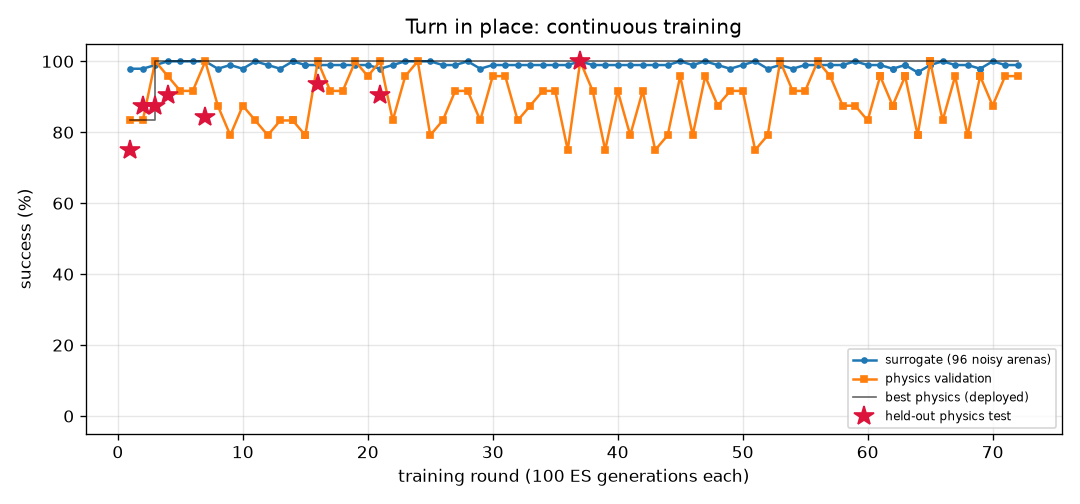
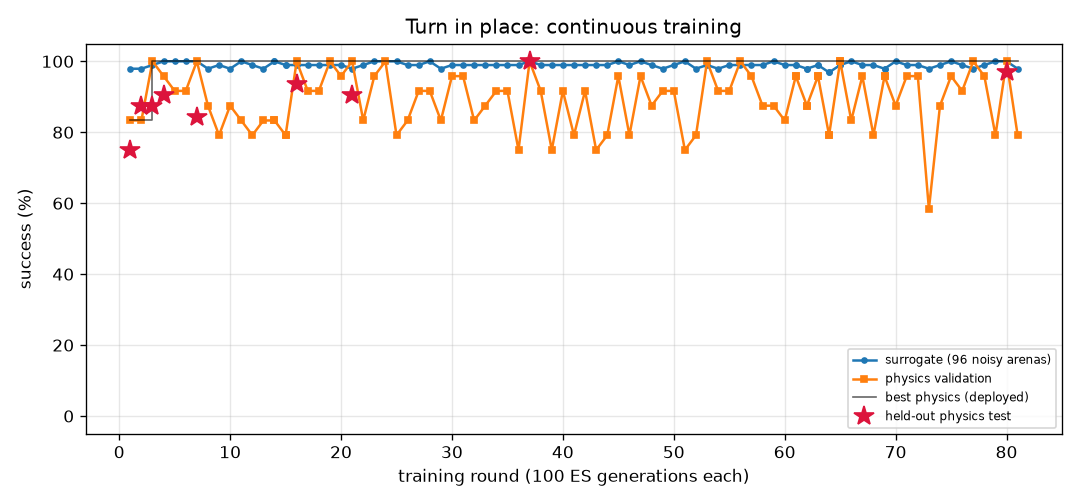
FlyLab: continuous training progress
- walk_forward: optimal, physics val 100% of 24, round 40
- turn: optimal, physics val 100% of 24, round 81
- goto: optimal, physics val 100% of 24, round 40
- odor_seek: optimal, physics val 100% of 24, round 68
- odor_avoid: optimal, physics val 96% of 24, round 246
- light_seek: optimal, physics val 100% of 24, round 213
- light_avoid: optimal, physics val 100% of 24, round 57

diff --git a/projects/09_flylab/training/turn/REPORT.md b/projects/09_flylab/training/turn/REPORT.md
@@ -1,31 +1,22 @@
 # Turn in place (`turn`) — training report
 
-*Auto-generated by `train_brains.py`, last updated 2026-10-03T20:35:49.*
+*Auto-generated by `train_brains.py`, last updated 2026-10-03T21:33:37.*
 
 ![curve](curve.png)
 
 | | |
 |---|---|
-| rounds | 72 |
-| ES generations | 7200 |
-| physics runs | 1942 |
+| rounds | 81 |
+| ES generations | 8100 |
+| physics runs | 2190 |
 | status | **optimal** |
-| best brain | round 37: physics validation **100%** on 24 arenas, surrogate 100% |
-| held-out physics test | **100%** on 32 unseen arenas (95% CI 89%-100%) (errors: [0.7, 2.9, 4.2, 1.6, 2.0, 1.9, 0.4, 0.6, 2.5, 2.5, 1.2, 5.1, 0.0, 1.3, 0.9, 2.0, 1.8, 3.9, 0.0, 2.1, 0.4, 1.6, 2.5, 0.7, 2.4, 4.8, 1.8, 6.0, 4.3, 1.3, 7.4, 7.2]) |
+| best brain | round 80: physics validation **100%** on 24 arenas, surrogate 100% |
+| held-out physics test | **97%** on 32 unseen arenas (95% CI 84%-99%) (errors: [1.6, 3.3, 6.3, 3.7, 1.1, 0.4, 2.4, 2.9, 0.1, 2.6, 0.5, 2.7, 1.5, 3.1, 4.5, 0.2, 0.5, 1.1, 2.0, 4.4, 2.8, 3.2, 0.3, 2.2, 0.5, 3.0, 0.3, 5.4, 0.4, 1.0, 4.7, 10.7]) |
 
 Physics error per arena: deg from target heading (< 20 = success).
 
 | round | level | gens | sigma | surrogate | physics val | val errors | test | note |
 |---:|---:|---:|---:|---:|---:|---|---:|---|
-| 39 | 3 | 3900 | 0.025 | 99% | 75% | [7.6, 6.9, 6.6, 1.5, 3.3, 4.4, 4.6, 5.2, 2.4, 1.2, 4.7, 0.0, 2.3, 2.1, 4.7, 0.0, 0.4, 1.7, 0.0, 0.1, 5.8, 2.4, 3.7, 3.0] |  |  |
-| 40 | 3 | 4000 | 0.025 | 99% | 92% | [6.2, 0.2, 7.0, 0.6, 11.5, 1.9, 5.9, 6.8, 5.9, 1.4, 4.2, 1.1, 1.3, 1.0, 4.1, 1.5, 2.1, 2.2, 1.5, 1.2, 2.3, 2.7, 6.6, 7.7] |  |  |
-| 41 | 3 | 4100 | 0.025 | 99% | 79% | [0.4, 4.8, 0.8, 1.6, 10.3, 116.6, 5.5, 1.3, 4.9, 2.4, 4.4, 0.5, 1.6, 0.8, 4.0, 10.2, 0.4, 0.9, 11.5, 0.1, 5.5, 2.5, 5.7, 4.8] |  | restart from best |
-| 42 | 3 | 4200 | 0.024 | 99% | 92% | [1.9, 0.3, 2.3, 2.0, 3.0, 4.4, 6.6, 4.3, 5.4, 11.7, 4.6, 1.7, 0.6, 1.5, 5.3, 2.0, 2.3, 1.7, 1.5, 1.3, 1.7, 1.8, 8.0, 2.0] |  |  |
-| 43 | 3 | 4300 | 0.025 | 99% | 75% | [5.1, 2.7, 1.8, 1.5, 4.1, 0.5, 3.5, 2.9, 4.1, 0.8, 0.1, 0.9, 1.8, 2.2, 4.9, 0.5, 0.6, 1.0, 0.2, 0.4, 104.5, 1.1, 7.0, 0.6] |  |  |
-| 44 | 3 | 4400 | 0.025 | 99% | 79% | [6.1, 5.9, 10.1, 5.5, 1.0, 3.8, 11.7, 8.1, 10.4, 3.1, 7.3, 7.0, 2.8, 3.4, 6.7, 13.5, 6.9, 4.9, 13.4, 14.6, 4.2, 4.7, 5.6, 1.1] |  |  |
-| 45 | 3 | 4500 | 0.025 | 100% | 96% | [2.6, 0.3, 4.4, 2.8, 2.9, 3.3, 6.3, 6.9, 6.6, 1.7, 6.7, 2.7, 0.1, 0.2, 4.2, 8.9, 2.8, 2.1, 2.2, 3.5, 5.9, 2.8, 6.6, 6.0] |  | restart from best |
-| 46 | 3 | 4600 | 0.024 | 99% | 79% | [4.1, 5.3, 4.5, 0.1, 2.4, 112.6, 8.3, 10.7, 7.2, 13.0, 7.4, 4.1, 1.4, 0.5, 5.2, 12.9, 4.3, 3.4, 11.5, 3.6, 1.3, 4.0, 9.8, 3.8] |  |  |
-| 47 | 3 | 4700 | 0.025 | 100% | 96% | [3.9, 1.2, 3.9, 1.0, 3.0, 4.1, 5.1, 2.6, 6.4, 1.7, 7.2, 3.0, 1.3, 3.8, 4.6, 1.2, 3.0, 1.7, 0.8, 1.0, 3.4, 3.3, 5.1, 3.3] |  |  |
 | 48 | 3 | 4800 | 0.024 | 99% | 88% | [3.9, 2.1, 0.6, 3.8, 5.2, 1.7, 6.8, 6.9, 6.4, 1.2, 6.6, 3.0, 0.6, 4.3, 5.8, 0.8, 0.4, 0.6, 0.8, 1.3, 3.6, 1.3, 4.6, 6.2] |  |  |
 | 49 | 3 | 4900 | 0.025 | 98% | 92% | [3.4, 3.4, 12.7, 4.8, 3.8, 2.0, 7.2, 2.5, 6.7, 1.9, 2.3, 5.6, 1.0, 0.1, 5.3, 3.3, 5.2, 4.5, 11.7, 11.6, 4.2, 3.7, 6.3, 8.9] |  | restart from best |
 | 50 | 3 | 5000 | 0.024 | 99% | 92% | [2.5, 10.7, 5.1, 0.7, 12.1, 13.1, 7.0, 9.4, 6.2, 11.3, 7.4, 3.9, 1.5, 0.2, 6.6, 2.5, 3.9, 2.8, 2.2, 2.7, 1.1, 2.4, 8.4, 1.7] |  |  |
@@ -57,3 +48,12 @@ Physics error per arena: deg from target heading (< 20 = success).
 | 70 | 3 | 7000 | 0.024 | 100% | 88% | [11.2, 15.8, 8.0, 1.3, 1.3, 8.6, 10.4, 11.0, 10.6, 5.2, 7.3, 9.0, 2.9, 4.8, 6.7, 15.7, 9.1, 16.7, 5.9, 8.3, 104.9, 4.2, 11.2, 13.3] |  |  |
 | 71 | 3 | 7100 | 0.024 | 99% | 96% | [0.5, 0.7, 0.6, 3.3, 2.4, 0.9, 5.1, 5.6, 6.5, 1.5, 4.2, 2.6, 0.7, 1.6, 4.9, 8.1, 3.3, 2.0, 4.1, 3.3, 6.1, 2.5, 6.0, 2.2] |  |  |
 | 72 | 3 | 7200 | 0.025 | 99% | 96% | [1.1, 13.5, 2.4, 0.1, 4.7, 1.2, 9.4, 6.5, 9.0, 1.7, 5.5, 3.4, 0.7, 0.2, 5.3, 4.3, 3.9, 3.2, 4.6, 4.9, 5.3, 3.1, 9.0, 5.6] |  |  |
+| 73 | 3 | 7300 | 0.025 | 98% | 58% | [6.7, 7.5, 8.3, 2.4, 1.9, 3.8, 8.7, 12.1, 8.7, 2.8, 6.6, 3.4, 2.8, 2.3, 8.3, 5.8, 4.1, 4.3, 9.9, 0.7, 6.0, 4.9, 8.3, 9.3] |  | restart from best |
+| 74 | 3 | 7400 | 0.024 | 99% | 88% | [6.7, 2.9, 7.1, 1.3, 11.0, 3.2, 8.0, 10.2, 5.7, 0.6, 6.0, 3.1, 1.9, 1.2, 5.0, 1.7, 2.0, 3.2, 1.8, 1.8, 4.1, 4.4, 8.0, 7.0] |  |  |
+| 75 | 3 | 7500 | 0.025 | 100% | 96% | [3.5, 1.2, 1.1, 2.4, 3.4, 3.1, 6.0, 6.3, 6.1, 2.6, 6.0, 2.6, 1.4, 0.4, 5.3, 2.2, 3.6, 2.6, 2.1, 0.2, 1.3, 1.1, 6.8, 1.5] |  |  |
+| 76 | 3 | 7600 | 0.024 | 99% | 92% | [5.1, 7.9, 5.5, 1.1, 5.3, 120.2, 4.5, 2.9, 3.3, 0.0, 4.5, 0.4, 2.3, 4.4, 0.8, 2.0, 0.7, 0.5, 2.4, 1.5, 3.7, 1.0, 1.6, 4.0] |  |  |
+| 77 | 3 | 7700 | 0.025 | 98% | 100% | [8.2, 4.7, 1.1, 2.7, 9.0, 0.7, 4.5, 2.7, 4.4, 0.5, 2.7, 0.3, 1.8, 3.4, 3.4, 0.0, 0.0, 0.3, 0.1, 0.2, 3.8, 1.2, 3.8, 4.5] |  | restart from best |
+| 78 | 3 | 7800 | 0.024 | 99% | 96% | [4.7, 2.1, 0.0, 2.0, 1.0, 2.3, 8.2, 5.2, 7.4, 2.7, 4.5, 3.0, 0.3, 0.3, 5.0, 2.5, 3.1, 2.1, 2.5, 2.8, 2.8, 3.1, 8.0, 3.9] |  |  |
+| 79 | 3 | 7900 | 0.025 | 100% | 79% | [4.9, 4.3, 4.4, 1.8, 13.9, 4.6, 6.0, 7.1, 4.1, 1.5, 3.5, 0.1, 0.0, 3.4, 4.1, 1.3, 0.1, 3.5, 3.0, 0.9, 4.0, 1.5, 4.3, 5.4] |  |  |
+| 80 | 3 | 8000 | 0.024 | 100% | 100% | [4.0, 7.1, 4.2, 3.6, 0.4, 1.3, 5.1, 2.4, 5.1, 0.8, 1.3, 0.7, 2.6, 2.5, 0.1, 2.4, 0.6, 1.0, 1.5, 5.9, 3.5, 0.3, 3.2, 0.1] | 97% | new best |
+| 81 | 3 | 8100 | 0.024 | 98% | 79% | [7.2, 5.5, 7.0, 0.3, 0.9, 1.4, 3.8, 1.0, 4.7, 1.0, 3.5, 1.7, 0.8, 1.5, 3.1, 1.7, 1.7, 0.8, 3.7, 2.6, 4.8, 1.6, 4.7, 2.7] |  |  |

diff --git a/projects/09_flylab/training/odor_avoid/REPORT.md b/projects/09_flylab/training/odor_avoid/REPORT.md
@@ -1,28 +1,22 @@
 # Escape a bad smell (`odor_avoid`) — training report
 
-*Auto-generated by `train_brains.py`, last updated 2026-10-03T20:28:25.*
+*Auto-generated by `train_brains.py`, last updated 2026-10-03T21:31:11.*
 
 ![curve](curve.png)
 
 | | |
 |---|---|
-| rounds | 240 |
-| ES generations | 24000 |
-| physics runs | 2746 |
+| rounds | 246 |
+| ES generations | 24600 |
+| physics runs | 2954 |
 | status | **optimal** |
-| best brain | round 229: physics validation **96%** on 24 arenas, surrogate 98% |
-| held-out physics test | **97%** on 32 unseen arenas (95% CI 84%-99%) (errors: [42.2, 41.6, 42.3, 42.4, 42.1, 41.9, 41.8, 42.0, 41.8, 41.9, 42.3, 41.5, 41.9, 42.2, 42.8, 41.8, 42.8, 38.5, 42.9, 33.6, 42.0, 42.6, 41.7, 42.8, 42.0, 40.9, 38.5, 36.3, 40.2, 40.8, 42.4, 28.6]) |
+| best brain | round 246: physics validation **96%** on 24 arenas, surrogate 97% |
+| held-out physics test | **97%** on 32 unseen arenas (95% CI 84%-99%) (errors: [46.1, 44.0, 46.3, 45.2, 44.5, 46.0, 45.0, 45.9, 45.3, 44.9, 45.3, 44.1, 45.9, 45.3, 45.6, 45.3, 45.8, 40.6, 44.9, 41.2, 45.4, 46.2, 44.2, 45.6, 45.1, 43.5, 41.2, 37.3, 43.3, 44.3, 45.4, 34.7]) |
 
 Physics error per arena: mm gained away from source (> 6 without first approaching it = success).
 
 | round | level | gens | sigma | surrogate | physics val | val errors | test | note |
 |---:|---:|---:|---:|---:|---:|---|---:|---|
-| 208 | 3 | 20800 | 0.028 | 97% | 96% | [22.8, 22.9, 22.0, 23.0, 21.2, 20.6, 23.5, 22.4, 22.6, 21.6, 22.7, 23.2, 21.8, 22.1, 20.3, 20.9, 22.8, 21.1, 22.4, 23.2, 23.2, 21.2, 22.5, 21.6] | 94% | new best |
-| 209 | 3 | 20900 | 0.026 | 94% | 96% | [27.4, 27.8, 26.8, 27.8, 25.9, 25.4, 28.0, 27.2, 27.2, 26.4, 27.2, 27.8, 26.9, 26.8, 24.6, 25.8, 27.4, 25.7, 27.2, 27.5, 27.8, 25.9, 27.4, 26.5] | 97% |  |
-| 210 | 3 | 21000 | 0.026 | 95% | 96% | [19.1, 19.8, 19.3, 19.9, 17.7, 17.3, 20.1, 19.1, 19.1, 18.5, 19.7, 20.0, 20.1, 19.8, 19.3, 17.4, 19.5, 17.7, 20.2, 20.0, 20.0, 17.8, 19.2, 18.2] | 94% |  |
-| 211 | 3 | 21100 | 0.026 | 97% | 96% | [28.1, 28.0, 27.3, 28.0, 27.1, 26.8, 28.7, 27.7, 28.3, 27.5, 27.5, 28.4, 26.2, 27.4, 22.8, 26.6, 28.2, 26.9, 26.3, 28.1, 28.4, 27.2, 27.9, 27.4] | 94% | new best |
-| 212 | 3 | 21200 | 0.026 | 95% | 100% | [23.5, 23.6, 22.9, 23.7, 22.3, 21.9, 24.3, 22.9, 23.3, 22.6, 23.6, 24.1, 22.5, 23.2, 20.6, 22.1, 23.8, 22.2, 22.9, 23.2, 24.1, 22.1, 23.1, 22.2] | 94% |  |
-| 213 | 3 | 21300 | 0.026 | 95% | 96% | [25.8, 26.1, 25.7, 26.2, 24.7, 24.3, 26.8, 25.6, 25.6, 25.2, 26.3, 26.7, 25.8, 25.9, 23.3, 24.4, 26.3, 24.5, 26.1, 25.8, 26.7, 24.7, 25.8, 24.9] |  |  |
 | 214 | 3 | 21400 | 0.027 | 97% | 96% | [24.5, 25.2, 24.6, 25.2, 23.0, 22.7, 25.5, 24.5, 24.5, 23.9, 25.1, 25.4, 25.5, 25.1, 16.5, 22.8, 24.8, 23.1, 25.7, 25.5, 25.3, 23.3, 24.6, 23.6] |  |  |
 | 215 | 3 | 21500 | 0.026 | 94% | 96% | [26.1, 26.8, 26.2, 26.9, 24.4, 23.9, 26.7, 26.1, 25.6, 25.3, 26.3, 26.7, 25.8, 26.2, 23.4, 24.1, 26.2, 24.3, 26.3, 26.7, 26.6, 24.6, 26.3, 25.2] |  |  |
 | 216 | 3 | 21600 | 0.028 | 97% | 96% | [33.2, 33.3, 32.4, 33.4, 31.9, 31.5, 34.1, 33.0, 32.9, 32.4, 33.2, 33.8, 30.8, 32.3, 29.1, 31.7, 33.4, 31.7, 32.3, 33.2, 33.7, 32.0, 33.0, 32.4] |  | restart from best |
@@ -57,3 +51,9 @@ Physics error per arena: mm gained away from source (> 6 without first approachi
 | 239 | 3 | 23900 | 0.026 | 96% | 96% | [47.6, 43.9, 46.2, 46.6, 47.2, 47.8, 48.0, 46.6, 48.0, 47.4, 47.2, 47.4, 41.5, 45.3, 33.6, 47.5, 47.2, 47.3, 42.5, 43.7, 47.1, 47.3, 46.9, 47.4] |  |  |
 | 240 | 3 | 24000 | 0.026 | 95% | 96% | [40.3, 37.2, 38.7, 39.2, 41.0, 40.8, 41.0, 40.4, 40.7, 40.7, 41.0, 41.0, 35.7, 38.3, 35.0, 41.0, 41.0, 40.8, 35.8, 37.2, 40.9, 40.6, 39.3, 40.2] | 94% |  |
 | 240 | 3 | 24000 | 0.026 | 95% | 96% | [40.3, 37.2, 38.7, 39.2, 41.0, 40.8, 41.0, 40.4, 40.7, 40.7, 41.0, 41.0, 35.7, 38.3, 35.0, 41.0, 41.0, 40.8, 35.8, 37.2, 40.9, 40.6, 39.3, 40.2] | 94% |  |
+| 241 | 3 | 24100 | 0.026 | 95% | 96% | [39.5, 39.0, 36.4, 39.3, 38.1, 38.2, 39.5, 39.2, 39.2, 38.1, 38.3, 39.3, 32.2, 36.0, 17.0, 38.1, 39.3, 38.2, 34.8, 36.9, 39.4, 38.9, 39.4, 39.2] |  |  |
+| 242 | 3 | 24200 | 0.027 | 95% | 96% | [42.2, 40.0, 38.6, 41.4, 41.1, 40.4, 41.2, 39.6, 41.4, 39.1, 38.3, 41.3, 33.9, 36.0, 3.2, 40.7, 41.4, 40.7, 35.0, 38.1, 41.1, 40.1, 41.6, 40.6] |  |  |
+| 243 | 3 | 24300 | 0.027 | 96% | 96% | [45.7, 42.1, 43.3, 44.8, 44.3, 44.0, 45.5, 44.7, 45.1, 44.5, 44.7, 45.4, 40.4, 42.8, 36.8, 44.2, 45.2, 44.4, 41.1, 42.8, 45.4, 44.7, 44.8, 44.6] |  |  |
+| 244 | 3 | 24400 | 0.026 | 96% | 96% | [39.8, 39.1, 38.2, 39.2, 38.9, 38.4, 40.1, 39.2, 39.4, 38.9, 39.5, 39.8, 36.4, 37.5, 31.9, 38.7, 39.8, 38.8, 36.8, 39.4, 39.9, 38.9, 39.2, 39.0] |  | restart from best |
+| 245 | 3 | 24500 | 0.026 | 98% | 96% | [44.4, 44.1, 42.5, 43.6, 43.8, 43.8, 44.0, 44.4, 44.7, 43.8, 43.4, 44.2, 39.4, 40.9, 35.7, 43.4, 44.3, 43.6, 39.8, 43.3, 44.2, 43.9, 43.8, 44.3] | 94% | new best |
+| 246 | 3 | 24600 | 0.025 | 97% | 96% | [46.4, 44.5, 43.0, 44.9, 45.2, 44.6, 45.9, 44.6, 45.7, 44.4, 45.1, 46.1, 39.6, 41.3, 35.5, 43.8, 46.1, 44.2, 40.6, 44.4, 45.9, 44.7, 45.0, 45.1] | 97% | new best |

diff --git a/projects/09_flylab/training/TRAINING.md b/projects/09_flylab/training/TRAINING.md
@@ -1,15 +1,15 @@
 # FlyLab brains — continuous training log
 
-*Auto-generated by `train_brains.py`, last updated 2026-10-03T20:35:49.*
+*Auto-generated by `train_brains.py`, last updated 2026-10-03T21:33:37.*
 
 Every skill has its own brain and its own training process: surrogate ES rounds, physics validation in MuJoCo, keep-the-best selection, and a held-out physics test that is never used for selection. See each skill's report for its full round-by-round history. Mastery is progressive: passing a level (100% physics validation, >=95% surrogate) doubles the validation and test arena sets; a brain is **optimal** once it holds up at level 3 (>=95% of 24 validation arenas) AND scores >=90% on the 32 held-out test arenas. Test columns show 95% Wilson confidence intervals.
 
 | skill | rounds | ES generations | physics runs | surrogate | physics val | **physics test** | status |
 |---|---:|---:|---:|---:|---:|---:|---|
 | [Walk forward](walk_forward/REPORT.md) | 40 | 4000 | 846 | 100% | 100% of 24 | 100% of 32 (CI 89-100%) | **optimal** |
-| [Turn in place](turn/REPORT.md) | 72 | 7200 | 1942 | 100% | 100% of 24 | 100% of 32 (CI 89-100%) | **optimal** |
+| [Turn in place](turn/REPORT.md) | 81 | 8100 | 2190 | 100% | 100% of 24 | 97% of 32 (CI 84-99%) | **optimal** |
 | [Go to a location](goto/REPORT.md) | 40 | 4000 | 718 | 99% | 100% of 24 | 100% of 32 (CI 89-100%) | **optimal** |
 | [Find food by smell](odor_seek/REPORT.md) | 68 | 6800 | 838 | 100% | 100% of 24 | 100% of 32 (CI 89-100%) | **optimal** |
-| [Escape a bad smell](odor_avoid/REPORT.md) | 240 | 24000 | 2746 | 98% | 96% of 24 | 97% of 32 (CI 84-99%) | **optimal** |
+| [Escape a bad smell](odor_avoid/REPORT.md) | 246 | 24600 | 2954 | 97% | 96% of 24 | 97% of 32 (CI 84-99%) | **optimal** |
 | [Walk toward light](light_seek/REPORT.md) | 213 | 21300 | 1800 | 100% | 100% of 24 | 100% of 32 (CI 89-100%) | **optimal** |
 | [Hide from light](light_avoid/REPORT.md) | 57 | 5700 | 1608 | 100% | 100% of 24 | 100% of 32 (CI 89-100%) | **optimal** |
